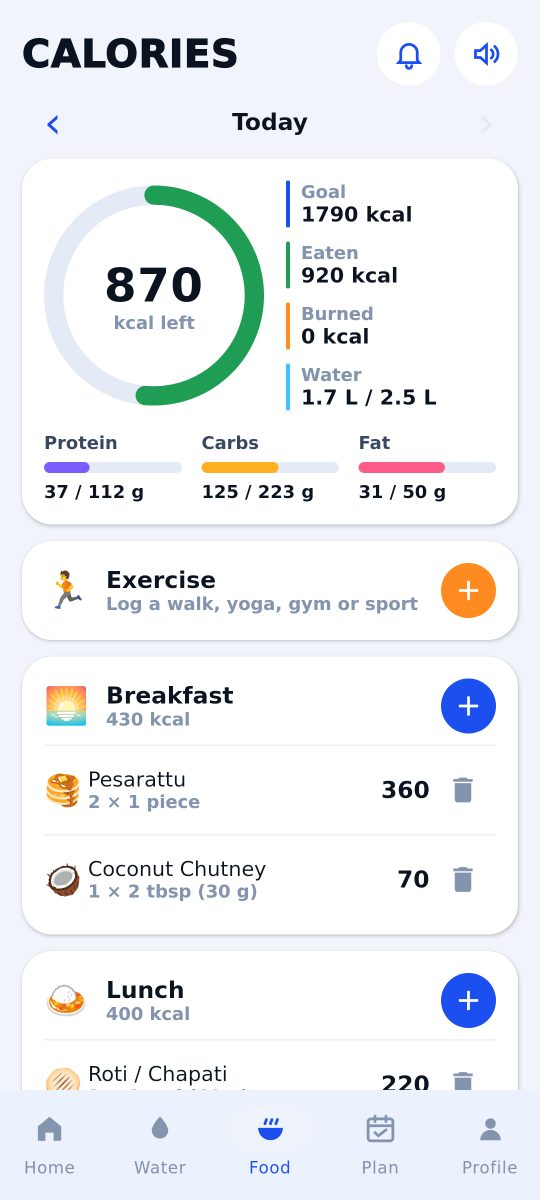
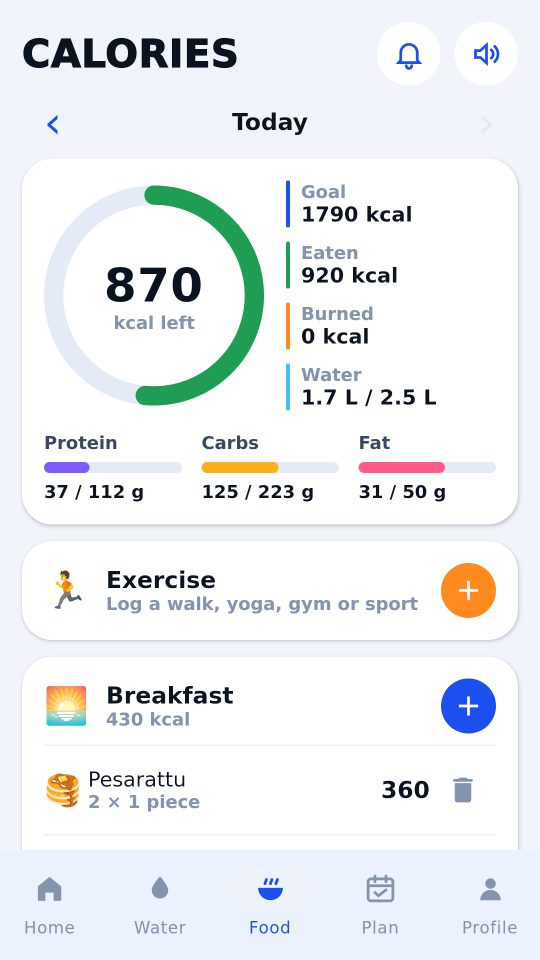
Restore the previous website screen layout
Reverts 5c8cdd4 (full-height screens); the tilted, zoomed screens looked better.

Claude-Session: https://claude.ai/code/session_0142dWXQoLM7LBxZYJ15YhcM

diff --git a/hosting/index.html b/hosting/index.html
@@ -18,7 +18,7 @@
 @media (prefers-color-scheme:dark){:root:not([data-theme="light"]){--ink:#eef2fb;--soft:#b9c3da;--muted:#8d98b3;--bg:#0b1220;--card:#141d31;--line:#243049;--chip:#1b2744}}
 *{box-sizing:border-box}html{scroll-behavior:smooth}
 body{margin:0;background:var(--bg);color:var(--ink);font:17px/1.6 Poppins,system-ui,-apple-system,"Segoe UI",Roboto,sans-serif;-webkit-font-smoothing:antialiased;overflow-x:hidden}
-a{color:inherit}img{max-width:100%;height:auto;display:block}
+a{color:inherit}img{max-width:100%;display:block}
 .wrap{max-width:1120px;margin:0 auto;padding:0 16px}
 header.top{position:sticky;top:0;z-index:10;background:color-mix(in srgb,var(--bg) 85%,transparent);backdrop-filter:blur(10px);border-bottom:1px solid var(--line)}
 header.top .wrap{display:flex;align-items:center;gap:16px;height:64px}
@@ -35,10 +35,10 @@ h1{font-size:clamp(34px,5.2vw,58px);line-height:1.08;margin:0 0 18px;letter-spac
 .hero p.lead{font-size:clamp(17px,2vw,20px);opacity:.9;margin:0 0 30px;max-width:540px}
 .cta{display:flex;gap:12px;flex-wrap:wrap}
 .hero .note{font-size:14px;opacity:.75;margin-top:14px}
-.phone{background:#0b1220;border-radius:40px;padding:9px;box-shadow:0 30px 60px rgba(0,0,30,.35);width:270px;max-width:100%}
-.phone img{border-radius:32px;width:100%}
-.hero .phones{display:flex;justify-content:center;align-items:flex-start;gap:22px}
-.hero .phones .phone{width:240px}.hero .phones .a{margin-top:48px}
+.phone{background:#0b1220;border-radius:44px;padding:10px;box-shadow:0 40px 80px rgba(0,0,30,.45);max-width:300px}
+.phone img{border-radius:34px;width:100%}
+.hero .phones{display:flex;justify-content:center;position:relative;height:560px}
+.hero .phones .phone{position:absolute}.hero .phones .a{transform:rotate(-7deg) translateX(-70px);top:30px;opacity:.95}.hero .phones .b{transform:rotate(5deg) translateX(80px)}
 section{padding:84px 0}
 .eyebrow{color:var(--brand);font-weight:700;font-size:14px;letter-spacing:1.5px;text-transform:uppercase}
 h2{font-size:clamp(28px,3.6vw,40px);line-height:1.15;margin:8px 0 14px;letter-spacing:-.5px}
@@ -53,11 +53,11 @@ h2{font-size:clamp(28px,3.6vw,40px);line-height:1.15;margin:8px 0 14px;letter-sp
 .f h3{margin:0 0 6px;font-size:19px}.f p{margin:0;color:var(--soft);font-size:15.5px}
 .show{display:grid;grid-template-columns:1fr 1fr;gap:56px;align-items:center}
 .show + .show{margin-top:84px}.show.rev .txt{order:2}
-.show .phone{margin:0 auto}
+.show .phone{margin:0 auto;max-width:320px}
 .ticks{list-style:none;padding:0;margin:22px 0 0}.ticks li{padding-left:34px;position:relative;margin-bottom:12px;color:var(--soft)}
 .ticks li:before{content:"✓";position:absolute;left:0;top:1px;width:22px;height:22px;border-radius:50%;background:#1f9d55;color:#fff;font-size:13px;display:grid;place-items:center;font-weight:700}
 .gallery{display:flex;gap:18px;overflow-x:auto;padding:34px 16px 18px;scroll-snap-type:x mandatory;max-width:1120px;margin:0 auto}
-.gallery .phone{flex:0 0 210px;width:210px;scroll-snap-align:center;border-radius:34px;padding:8px}.gallery .phone img{border-radius:27px}
+.gallery .phone{flex:0 0 220px;scroll-snap-align:center;border-radius:34px;padding:8px}.gallery .phone img{border-radius:27px}
 .langs{display:flex;flex-wrap:wrap;gap:10px;justify-content:center;margin-top:28px}
 .langs span{background:var(--card);border:1px solid var(--line);border-radius:999px;padding:10px 18px;font-weight:600;font-size:17px}
 .plans{display:grid;grid-template-columns:repeat(3,1fr);gap:18px;margin-top:40px;align-items:stretch}
@@ -83,7 +83,7 @@ footer .wrap{display:flex;flex-wrap:wrap;gap:18px;align-items:center}footer nav{
  nav.links{display:none}
  .hero .wrap{grid-template-columns:1fr;padding-top:48px;padding-bottom:40px;text-align:center}
  .hero p.lead{margin-left:auto;margin-right:auto}.cta{justify-content:center}
- .hero .phones{gap:14px}.hero .phones .phone{width:46%;max-width:200px;border-radius:30px;padding:6px}.hero .phones .phone img{border-radius:25px}.hero .phones .a{margin-top:30px}
+ .hero .phones{height:380px}.hero .phones .phone{width:180px;border-radius:32px;padding:7px}.hero .phones .phone img{border-radius:26px}.hero .phones .a{transform:rotate(-7deg) translateX(-60px)}.hero .phones .b{transform:rotate(5deg) translateX(62px)}
  .stats{grid-template-columns:repeat(2,1fr);margin-top:-24px}
  .features,.plans{grid-template-columns:1fr}
  .show{grid-template-columns:1fr;gap:28px}.show.rev .txt{order:0}
@@ -111,8 +111,8 @@ footer .wrap{display:flex;flex-wrap:wrap;gap:18px;align-items:center}footer nav{
     <div class="note">Free to use · Pro from ₹990 a year · Android</div>
   </div>
   <div class="phones">
-    <div class="phone a"><img src="/img/plan.jpg" alt="Diet plan screen" width="540" height="1200"></div>
-    <div class="phone b"><img src="/img/home.jpg" alt="Home screen with calories and water" width="540" height="1200"></div>
+    <div class="phone a"><img src="/img/plan.jpg" alt="Diet plan screen" width="540" height="960"></div>
+    <div class="phone b"><img src="/img/home.jpg" alt="Home screen with calories and water" width="540" height="960"></div>
   </div>
 </div></div>
 
@@ -142,19 +142,19 @@ footer .wrap{display:flex;flex-wrap:wrap;gap:18px;align-items:center}footer nav{
     <div class="txt"><div class="eyebrow">Diet plan</div><h2>Your meals, planned every day</h2>
       <p class="sub">Tell Roti Track your age, height, weight and goal. It works out your calories and plans breakfast, lunch, snack and dinner from food you know.</p>
       <ul class="ticks"><li>Lose, keep or gain weight at a safe pace</li><li>Don't like a meal? Swap it with one tap</li><li>See the whole week ahead with Pro</li></ul></div>
-    <div class="phone"><img src="/img/plan.jpg" alt="Diet plan" width="540" height="1200"></div>
+    <div class="phone"><img src="/img/plan.jpg" alt="Diet plan" width="540" height="960"></div>
   </div>
   <div class="show rev">
     <div class="txt"><div class="eyebrow">Food log</div><h2>From idli to biryani, it's all here</h2>
       <p class="sub">Search 190+ foods with proper Indian servings (1 roti, 1 katori dal, 1 plate poha), plus pizza, noodles and momos for the cheat days.</p>
       <ul class="ticks"><li>Veg, egg and non-veg marks on every food</li><li>Add your own recipes with Pro</li><li>Log exercise and see calories burned</li></ul></div>
-    <div class="phone"><img src="/img/add.jpg" alt="Add food" width="540" height="1200"></div>
+    <div class="phone"><img src="/img/add.jpg" alt="Add food" width="540" height="960"></div>
   </div>
   <div class="show">
     <div class="txt"><div class="eyebrow">Water</div><h2>Drink enough water, every day</h2>
       <p class="sub">Your water goal is set from your weight and activity. Log water, nimbu pani, coconut water, chaas or chai with one tap.</p>
       <ul class="ticks"><li>Smart reminders from morning to night</li><li>Pleasant sounds, or silent vibration</li><li>Streaks to keep you going</li></ul></div>
-    <div class="phone"><img src="/img/water.jpg" alt="Water tracker" width="540" height="1200"></div>
+    <div class="phone"><img src="/img/water.jpg" alt="Water tracker" width="540" height="960"></div>
   </div>
 </div></section>
 
@@ -162,13 +162,13 @@ footer .wrap{display:flex;flex-wrap:wrap;gap:18px;align-items:center}footer nav{
   <div class="eyebrow">A closer look</div><h2>Simple, clean and friendly</h2>
 </div>
 <div class="gallery">
-  <div class="phone"><img src="/img/home.jpg" alt="Home" width="540" height="1200"></div>
-  <div class="phone"><img src="/img/food.jpg" alt="Calories" width="540" height="1200"></div>
-  <div class="phone"><img src="/img/plan.jpg" alt="Diet plan" width="540" height="1200"></div>
-  <div class="phone"><img src="/img/water.jpg" alt="Water" width="540" height="1200"></div>
-  <div class="phone"><img src="/img/reminders.jpg" alt="Reminders" width="540" height="1200"></div>
-  <div class="phone"><img src="/img/hindi.jpg" alt="Hindi" width="540" height="1200"></div>
-  <div class="phone"><img src="/img/pro.jpg" alt="Pro" width="540" height="1200"></div>
+  <div class="phone"><img src="/img/home.jpg" alt="Home" width="540" height="960"></div>
+  <div class="phone"><img src="/img/food.jpg" alt="Calories" width="540" height="960"></div>
+  <div class="phone"><img src="/img/plan.jpg" alt="Diet plan" width="540" height="960"></div>
+  <div class="phone"><img src="/img/water.jpg" alt="Water" width="540" height="960"></div>
+  <div class="phone"><img src="/img/reminders.jpg" alt="Reminders" width="540" height="960"></div>
+  <div class="phone"><img src="/img/hindi.jpg" alt="Hindi" width="540" height="960"></div>
+  <div class="phone"><img src="/img/pro.jpg" alt="Pro" width="540" height="960"></div>
 </div></section>
 
 <section id="languages" style="padding-top:20px"><div class="wrap center">
